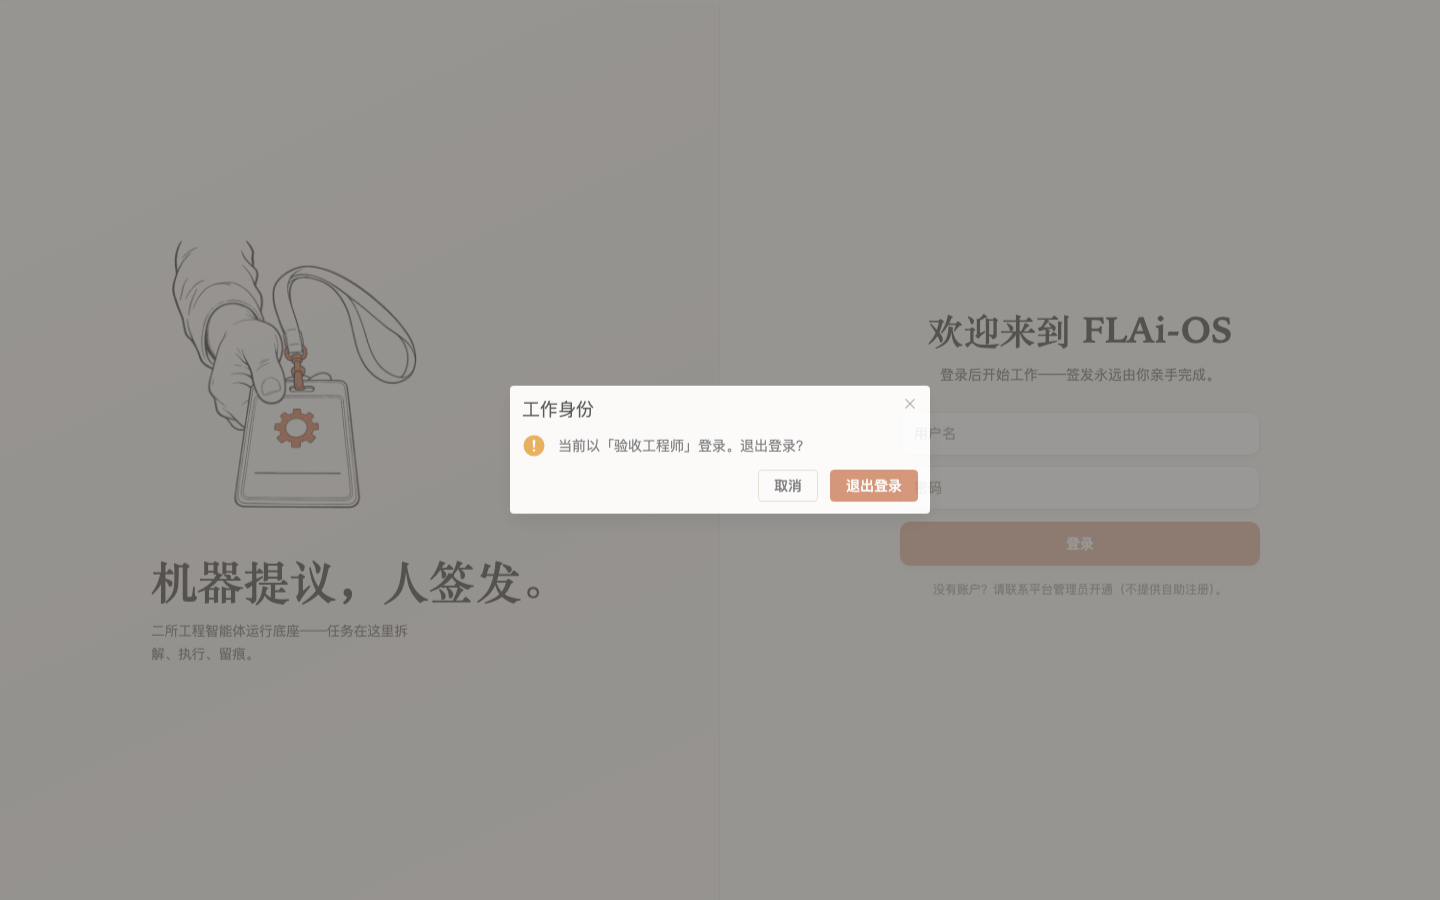
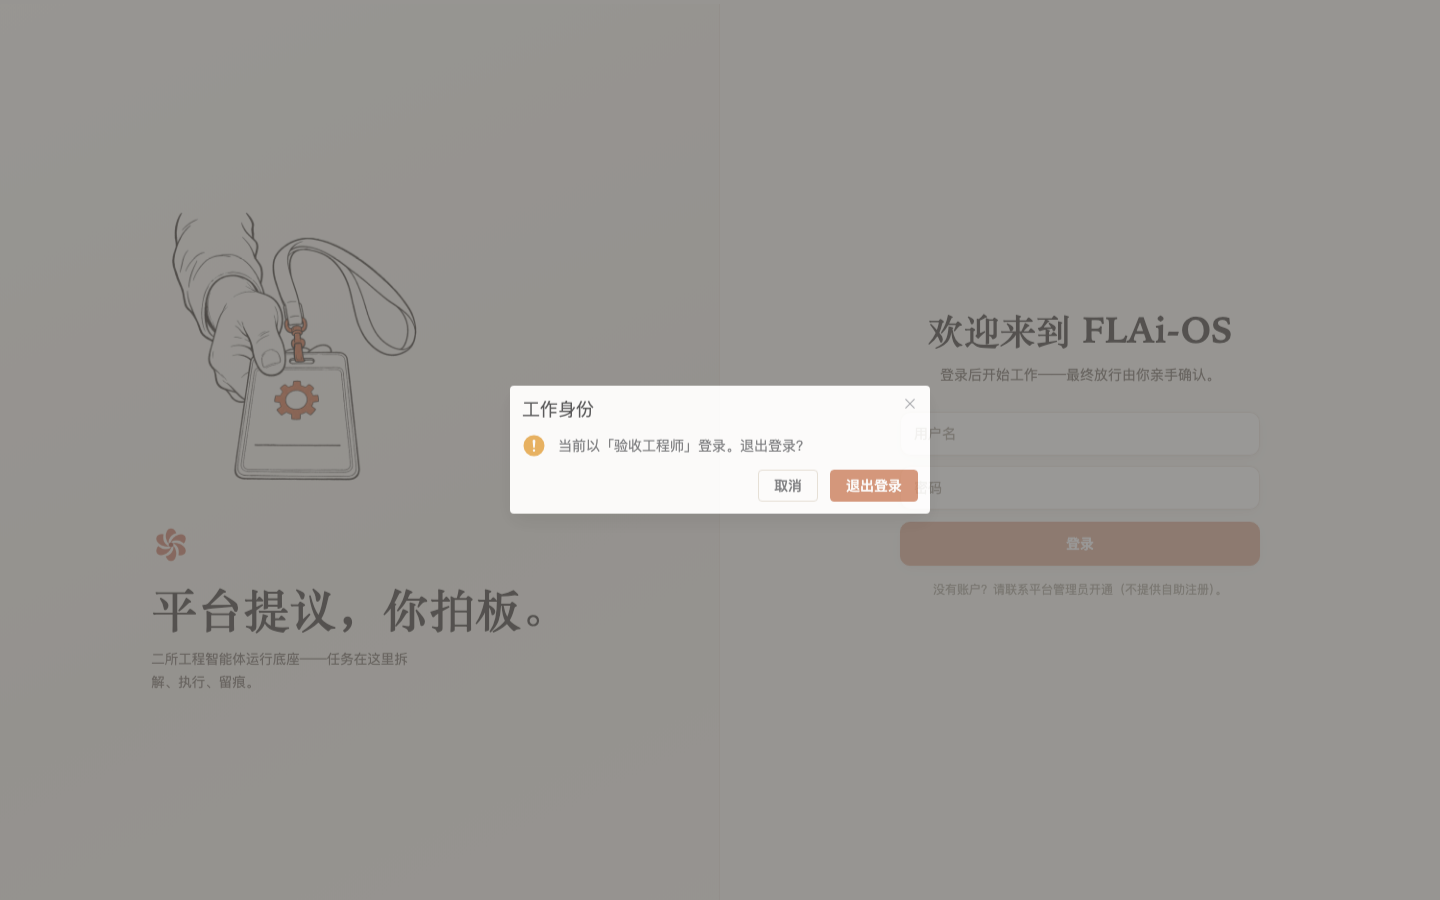
fix(map46-65): 互审 F1 处置——taskFeed 末位释放清共享快照+登出回落静止断言(#65,map #46)
86gs 中转 codex exec gpt-5.6(tokens 61,106)request-changes 唯一阻断项:
feedTasks 旧快照在登出/身份失效后残留驱动 brand 慢速,违诚实地板回落纪律。
修=releaseTaskFeed 末位释放清三枚共享 ref;m11 新增 ③b/④b 判别对(直插 queued
确定性信号源,tamper 实证撤修复④b 真红)。m11-auth-shots 随新基线重拍。

diff --git a/frontend/src/stores/taskFeed.js b/frontend/src/stores/taskFeed.js
@@ -30,5 +30,12 @@ export function releaseTaskFeed() {
     stops = [];
     handle.release();
     handle = null;
+    // 票 #65 互审 F1：末位订阅者释放后清空共享快照——链已停，旧任务列表不得
+    // 残留充当信号（侧栏 brand 动态涡轮在登出/身份失效后必须回落静止，诚实
+    // 地板：信号消失必须回落）。此时全部持有方已卸载/释放，无人再读这三枚 ref；
+    // 重新 acquire 时 watch immediate 会从新 channel 重新水合。
+    feedTasks.value = [];
+    feedLoaded.value = false;
+    feedError.value = "";
   }
 }

diff --git a/frontend/e2e/m11_auth_acceptance.py b/frontend/e2e/m11_auth_acceptance.py
@@ -1,7 +1,9 @@
 """M11-B1 真鉴权 UI 验收（ADR-0019 验收标准 7）。
 
 覆盖：①未登录首访=登录门+API 401 ②错密码诚实报错（后端 detail 原文上屏）
-③正确登录进入+身份上侧栏 ④登出回门+旧会话服务端已废 ⑤会话中途被吊销
+③正确登录进入+身份上侧栏 ③b queued 信号在时侧栏 brand 进慢速档（票 #65）
+④登出回门+旧会话服务端已废 ④b 登出后品牌标回落静止（票 #65 互审 F1：
+feed 末位释放清共享快照，旧信号不残留）⑤会话中途被吊销
 （服务端删行模拟过期/停用）→ 任意 API 401 → 门自动重亮（flai:unauthorized 链）。
 
 自包含：tmp 目录自起后端（绝不碰真实 data/）。运行（仓根）：
@@ -115,6 +117,31 @@ with sync_playwright() as p:
     check("③登录进入且身份上侧栏", "验收工程师" in sb_identity, sb_identity)
     page.screenshot(path=str(SHOTS / "3_logged_in.png"))
 
+    # ── ③b 票 #65 互审 F1 回归锚（信号面）：queued 任务在时侧栏 brand 必须进
+    # 慢速档。确定性信号源=直插 queued 任务行（不经 LLM），等 tasks channel
+    # 5s 轮询落地；与 ④b 构成「信号出现→慢速 / 信号消失→静止」的判别对。 ──
+    from datetime import datetime, timezone  # 局部引入，不扰文件头
+
+    conn = get_conn(WORK / "flai_os.db")
+    try:
+        _now = datetime.now(timezone.utc).isoformat()
+        conn.execute(
+            "INSERT INTO tasks (id, agent_id, agent_version, name, status, created_by, created_at, updated_at, created_by_username)"
+            " VALUES (?, ?, ?, ?, ?, ?, ?, ?, ?)",
+            ("task_m11_slow_signal", "hello_agent", "0.1.0", "M11 慢速信号源（票 #65 F1）",
+             "queued", "验收工程师", _now, _now, E2E_USERNAME),
+        )
+        conn.commit()
+    finally:
+        conn.close()
+    try:
+        page.wait_for_selector(".sb-brand .flai-bloom.is-slow", timeout=15000)
+        slow_seen = True
+    except Exception:
+        slow_seen = False
+    check("③b queued 信号在时侧栏 brand 进慢速档（票 #65 定稿 Q3=i）", slow_seen,
+          "未在 15s 内捕到 .sb-brand .flai-bloom.is-slow")
+
     # ── ④ 登出：确认框→回登录门；旧 cookie 服务端已废 ──
     cookies = {c["name"]: c["value"] for c in page.context.cookies()}
     old_token = cookies.get("flai_session", "")
@@ -125,6 +152,27 @@ with sync_playwright() as p:
     check("④登出回门 + 旧会话服务端已废（重放 401）",
           old_token != "" and replay.status_code == 401, f"replay={replay.status_code}")
     page.screenshot(path=str(SHOTS / "4_logged_out.png"))
+
+    # ── ④b 票 #65 互审 F1（回落面）：登出=feed 释放，品牌标必须回落静止——
+    # 旧快照不得残留驱动慢速档（诚实地板：信号消失必须回落）。无本票修复时
+    # ③b 的 queued 旧快照会让 is-slow 在登出后滞留，此断言 discriminating。 ──
+    try:
+        page.wait_for_function(
+            """() => {
+              const b = document.querySelector('.sb-brand .flai-bloom');
+              return b && !b.classList.contains('is-slow') && !b.classList.contains('is-fast');
+            }""",
+            timeout=5000,
+        )
+        brand_settled = True
+    except Exception:
+        brand_settled = False
+    brand_anim = page.eval_on_selector(
+        ".sb-brand .flai-bloom img", "el => getComputedStyle(el).animationName"
+    )
+    check("④b 登出后品牌标回落静止（票 #65 F1：feed 释放清快照）",
+          brand_settled is True and brand_anim == "none",
+          f"settled={brand_settled} anim={brand_anim}")
 
     # ── ⑤ 会话中途被吊销（服务端删行=停用/过期同路径）→ API 401 → 门自动重亮 ──
     page.get_by_placeholder("用户名").fill(E2E_USERNAME)

diff --git a/docs/reviews/MAP46-65-TURBINE-LOGO-IMPL-record.md b/docs/reviews/MAP46-65-TURBINE-LOGO-IMPL-record.md
@@ -49,7 +49,18 @@
 - 工牌插画氛围位定性不动；favicon 换图不动 clay 语义。✓
 - 零新依赖：package.json 未动。✓
 
-## 六、遗留与边界
+## 六、互审处置（86gs 中转 codex exec，gpt-5.6，tokens 61,106；结论 request-changes 1 条）
+
+- **F1（P1，信任/诚实）**：task feed 末位释放后 `feedTasks` 共享快照未清，`brandBloomState`
+  在登出/身份失效后可能滞留 slow——违诚实地板（信号消失必须回落）。
+  **处置=修**：`stores/taskFeed.js` releaseTaskFeed 末位释放清 `feedTasks/feedLoaded/feedError`
+  三枚共享 ref（全部持有方此时已卸载/释放，无人再读；重新 acquire 经 watch immediate 重新水合）；
+  并按评审要求补回落断言——`m11_auth_acceptance.py` 新增 ③b/④b 判别对（直插 queued 行做
+  确定性信号源：信号在→brand 慢速；登出释放→回落静止）。tamper 实证：撤掉修复后 ④b 真红
+  （`settled=False anim=flai-bloom-spin`），修复在时 7/7 全绿。
+- 其余镜头（定稿符合性/降级/e2e/Vue 实现/资产/文档）评审均无 finding。
+
+## 七、遗留与边界
 
 - 审计栈 launcher 不起任务执行线程，开工任务停 queued——慢速演示信号=queued（定稿映射含 queued）；工作态（running 等）路径由同一谓词覆盖（TASK_WORK_STATES），e2e 已有同口径锚。
 - 流式高速的 live 定格受 stub burst 限制走 fixture；真实模型内网复验（M4 线）同型挂账。
